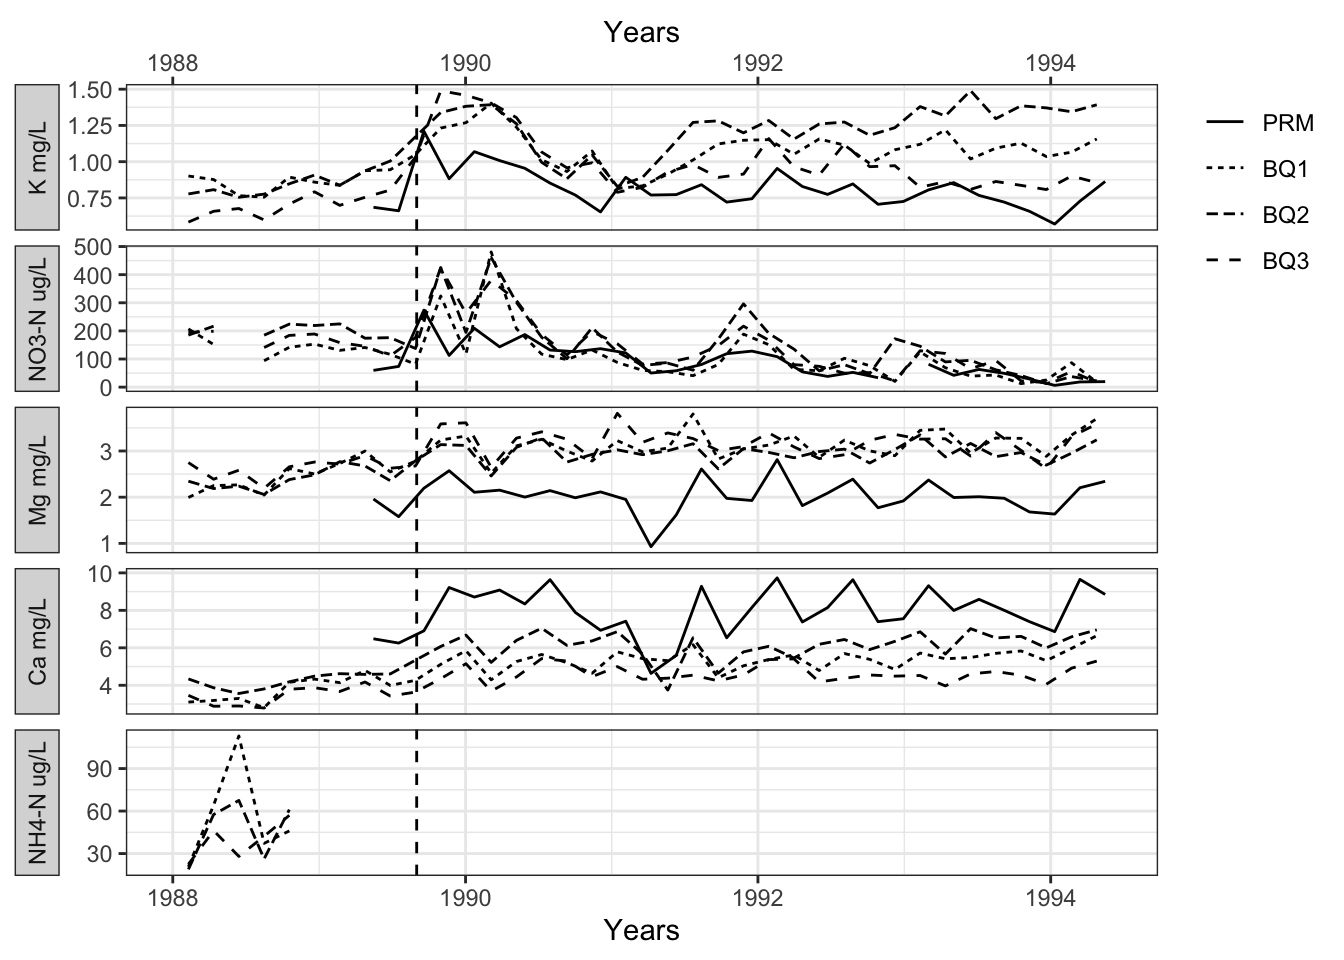
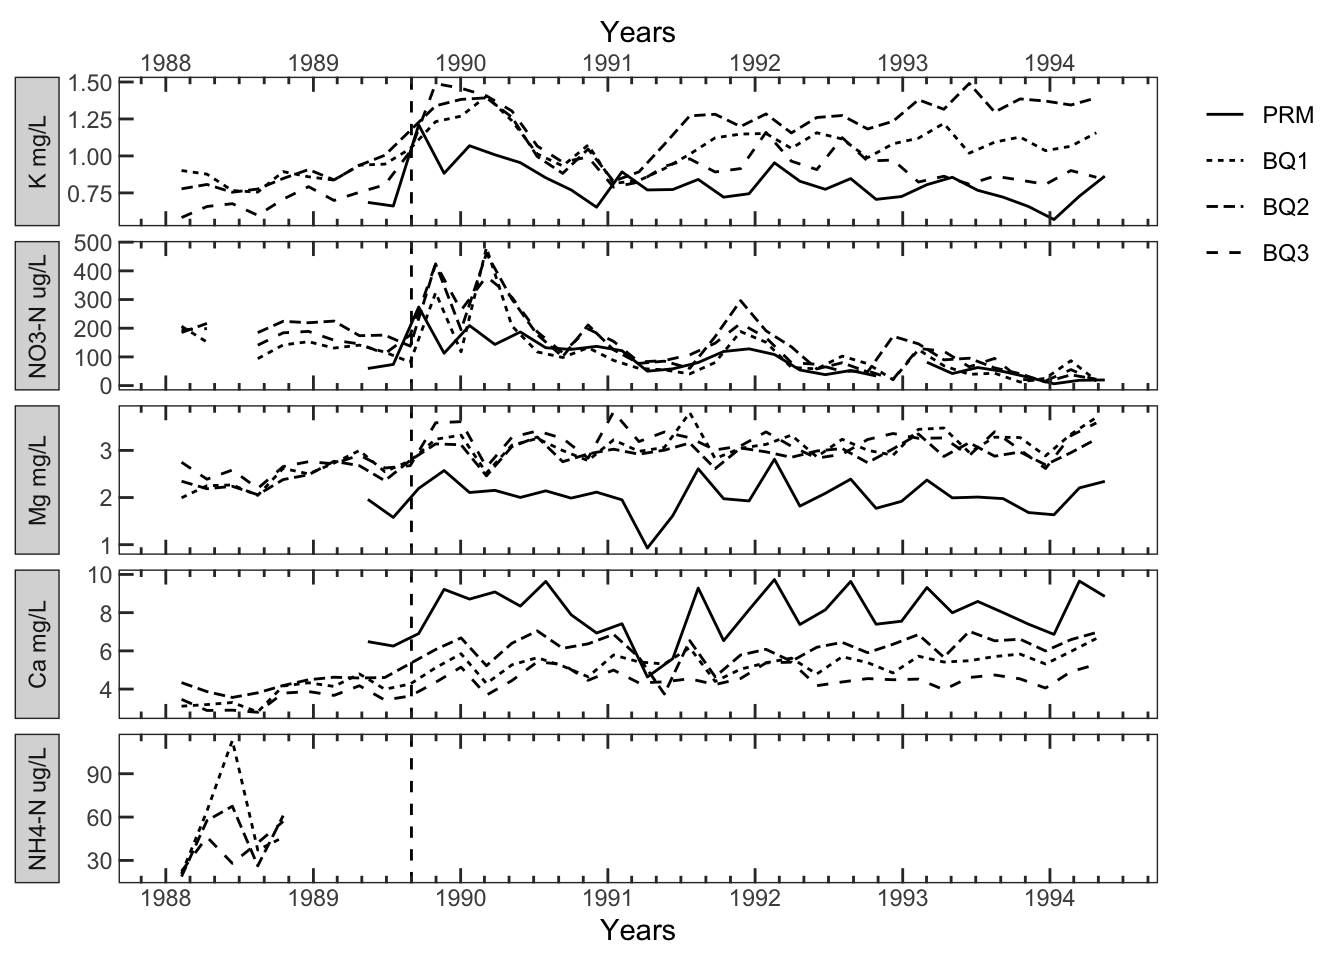
Updating paper.qmd and doc/ to fix md header format and additional plotting adjustments

diff --git a/docs/paper.html b/docs/paper.html
@@ -7,7 +7,7 @@
 <meta name="viewport" content="width=device-width, initial-scale=1.0, user-scalable=yes">
 
 
-<title>paper</title>
+<title>EDS214 Final Project: Figure Reproducibility</title>
 <style>
 /* Default styles provided by pandoc.
 ** See https://pandoc.org/MANUAL.html#variables-for-html for config info.
@@ -50,11 +50,25 @@ ul.task-list li input[type="checkbox"] {
 
 <main class="content" id="quarto-document-content">
 
+<header id="title-block-header" class="quarto-title-block default">
+<div class="quarto-title">
+<h1 class="title">EDS214 Final Project: Figure Reproducibility</h1>
+</div>
 
 
 
-<section id="eds214-final-project-figure-reproducibility" class="level1">
-<h1>EDS214 Final Project: Figure Reproducibility</h1>
+<div class="quarto-title-meta">
+
+    
+  
+    
+  </div>
+  
+
+
+</header>
+
+
 <section id="background" class="level2">
 <h2 class="anchored" data-anchor-id="background">Background</h2>
 <p>The following is the final project analysis for EDS214. The main goal for this project was to replicate Figure 3 from Schaefer et al.&nbsp;(2000) through the implementation of coding techniques learned in this class, including code automation, organization, documentation, and collaboration methods. Figure 1 below shows Figure 3 with the corresponding figure caption from the original Schaefer et al.&nbsp;(2000) publication. In this figure from the original publication, multiple stream sites in Puerto Rico were measured for ion concentrations before and after Hurricane Hugo in September 1989.</p>
@@ -86,7 +100,6 @@ ul.task-list li input[type="checkbox"] {
 <h2 class="anchored" data-anchor-id="references">References</h2>
 <p>McDowell, William H., and USDA Forest Service. International Institute Of Tropical Forestry (IITF). 2024. “Chemistry of Stream Water from the Luquillo Mountains.” Environmental Data Initiative. <a href="https://doi.org/10.6073/PASTA/F31349BEBDC304F758718F4798D25458">https://doi.org/10.6073/PASTA/F31349BEBDC304F758718F4798D25458</a>.</p>
 <p>Schaefer, Douglas. A., William H. McDowell, Fredrick N. Scatena, and Clyde E. Asbury. 2000. “Effects of Hurricane Disturbance on Stream Water Concentrations and Fluxes in Eight Tropical Forest Watersheds of the Luquillo Experimental Forest, Puerto Rico.” <em>Journal of Tropical Ecology</em> 16 (2): 189–207. <a href="https://doi.org/10.1017/s0266467400001358">https://doi.org/10.1017/s0266467400001358</a>.</p>
-</section>
 </section>
 
 </main>
